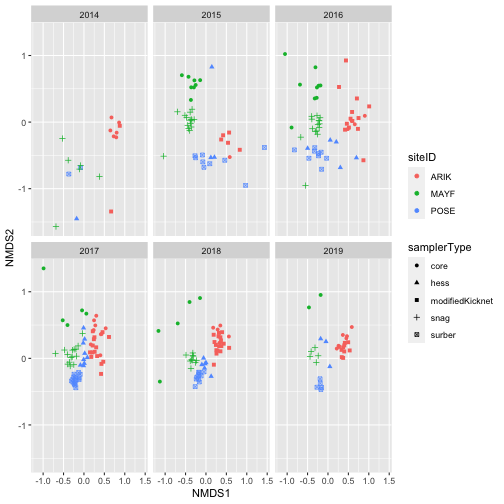
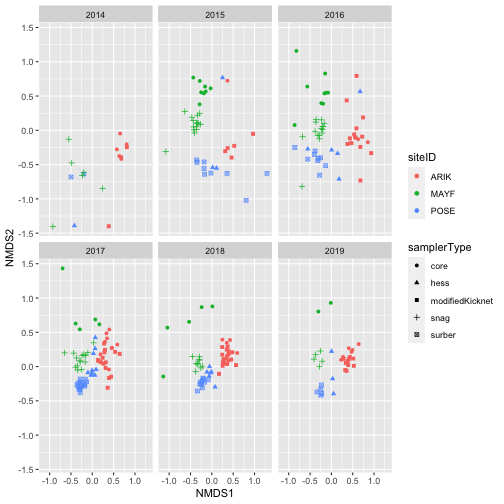
Tiny updates to SFS biodiversity 01 - removing topics (that maybe don't exist?) trying to fix sync issue.

diff --git a/tutorials/R/SFS-2020/01_working_with_NEON_macroinverts.md b/tutorials/R/SFS-2020/01_working_with_NEON_macroinverts.md
@@ -7,7 +7,7 @@ authors: Eric R. Sokol
 contributors: Donal O'Leary
 estimatedTime: 1 Hour
 packagesLibraries: tidyverse, neonUtilities, vegan, vegetarian
-topics: biodiversity, aquatic organisms
+topics:
 languagesTool: R
 dataProduct: DP1.20120.001
 code1: R/SFS-2020/01_working_with_NEON_macroinverts.R
@@ -99,7 +99,7 @@ Now that the workspace is prepared, we will download NEON macroinvertibrate data
     ## Copied the most recent publication of categoricalCodes file to /stackedFiles
     ## Copied the most recent publication of variable definition file to /stackedFiles
     ## Finished: Stacked 3 data tables and 3 metadata tables!
-    ## Stacking took 1.095396 secs
+    ## Stacking took 1.207359 secs
     ## All unzipped monthly data folders have been removed.
 
 ## Macroinvertebrate Data Munging
@@ -621,39 +621,37 @@ Finally, we will use Nonmetric Multidimensional Scaling (NMDS) to ordinate sampl
     ## Square root transformation
     ## Wisconsin double standardization
     ## Run 0 stress 0.2140863 
-    ## Run 1 stress 0.2160446 
-    ## Run 2 stress 0.2282881 
-    ## Run 3 stress 0.2140571 
+    ## Run 1 stress 0.2162688 
+    ## Run 2 stress 0.2243414 
+    ## Run 3 stress 0.2350566 
+    ## Run 4 stress 0.2211345 
+    ## Run 5 stress 0.2248335 
+    ## Run 6 stress 0.2147118 
+    ## Run 7 stress 0.2183928 
+    ## Run 8 stress 0.229536 
+    ## Run 9 stress 0.2115771 
     ## ... New best solution
-    ## ... Procrustes: rmse 0.02484201  max resid 0.2526633 
-    ## Run 4 stress 0.2186605 
-    ## Run 5 stress 0.2175908 
-    ## Run 6 stress 0.2243299 
-    ## Run 7 stress 0.2239796 
-    ## Run 8 stress 0.2242964 
-    ## Run 9 stress 0.226169 
-    ## Run 10 stress 0.2141104 
-    ## ... Procrustes: rmse 0.02450315  max resid 0.2521444 
-    ## Run 11 stress 0.209966 
+    ## ... Procrustes: rmse 0.02224985  max resid 0.1627784 
+    ## Run 10 stress 0.2212443 
+    ## Run 11 stress 0.2325747 
+    ## Run 12 stress 0.2181018 
+    ## Run 13 stress 0.2210445 
+    ## Run 14 stress 0.226579 
+    ## Run 15 stress 0.2288188 
+    ## Run 16 stress 0.2133539 
+    ## Run 17 stress 0.2319424 
+    ## Run 18 stress 0.2231202 
+    ## Run 19 stress 0.2104442 
     ## ... New best solution
-    ## ... Procrustes: rmse 0.02259119  max resid 0.2546775 
-    ## Run 12 stress 0.2208347 
-    ## Run 13 stress 0.2273503 
-    ## Run 14 stress 0.2104249 
-    ## ... Procrustes: rmse 0.01160543  max resid 0.1399671 
-    ## Run 15 stress 0.2131553 
-    ## Run 16 stress 0.2186318 
-    ## Run 17 stress 0.2254547 
-    ## Run 18 stress 0.2164757 
-    ## Run 19 stress 0.2303861 
-    ## Run 20 stress 0.2120193 
+    ## ... Procrustes: rmse 0.01964899  max resid 0.1649962 
+    ## Run 20 stress 0.2386217 
     ## *** No convergence -- monoMDS stopping criteria:
     ##     20: stress ratio > sratmax
 
     # plot stress
     my_nmds_result$stress
 
-    ## [1] 0.209966
+    ## [1] 0.2104442
 
     p1 <- vegan::ordiplot(my_nmds_result)
     vegan::ordilabel(p1, "species")
@@ -672,49 +670,49 @@ Finally, we will use Nonmetric Multidimensional Scaling (NMDS) to ordinate sampl
     nmds_scores %>% arrange(desc(NMDS1)) %>% head()
 
     ##                  sampleID     NMDS1       NMDS2 domainID siteID
-    ## 1  POSE.20150721.SURBER.1 1.4318861 -0.38134736      D02   POSE
-    ## 2 ARIK.20160919.KICKNET.3 1.0091420  0.23569204      D10   ARIK
-    ## 3  POSE.20150330.SURBER.1 0.9711197 -0.95001981      D02   POSE
-    ## 4    ARIK.20160919.CORE.3 0.9023961  0.09424011      D10   ARIK
-    ## 5 ARIK.20140714.KICKNET.3 0.8774704 -0.05561697      D10   ARIK
-    ## 6 ARIK.20160919.KICKNET.4 0.8683293 -0.57333108      D10   ARIK
+    ## 1  POSE.20150721.SURBER.1 1.2922853 -0.62774974      D02   POSE
+    ## 2 ARIK.20150325.KICKNET.4 0.9661968 -0.05133823      D10   ARIK
+    ## 3 ARIK.20160919.KICKNET.3 0.9328427 -0.33302062      D10   ARIK
+    ## 4    ARIK.20160919.CORE.3 0.8550815 -0.17361451      D10   ARIK
+    ## 5 ARIK.20140714.KICKNET.3 0.8110389 -0.24606938      D10   ARIK
+    ## 6   ARIK.20140714.CORER.3 0.8050464 -0.20361600      D10   ARIK
     ##    namedLocation         collectDate       eventID year
     ## 1 POSE.AOS.reach 2015-07-21 14:43:00 POSE.20150721 2015
-    ## 2 ARIK.AOS.reach 2016-09-19 22:06:00 ARIK.20160919 2016
-    ## 3 POSE.AOS.reach 2015-03-30 14:30:00 POSE.20150330 2015
+    ## 2 ARIK.AOS.reach 2015-03-25 17:15:00 ARIK.20150325 2015
+    ## 3 ARIK.AOS.reach 2016-09-19 22:06:00 ARIK.20160919 2016
     ## 4 ARIK.AOS.reach 2016-09-19 22:06:00 ARIK.20160919 2016
     ## 5 ARIK.AOS.reach 2014-07-14 17:51:00 ARIK.20140714 2014
-    ## 6 ARIK.AOS.reach 2016-09-19 22:06:00 ARIK.20160919 2016
+    ## 6 ARIK.AOS.reach 2014-07-14 17:51:00 ARIK.20140714 2014
     ##   habitatType     samplerType benthicArea          inv_dens_unit
     ## 1      riffle          surber       0.093 count per square meter
     ## 2         run modifiedKicknet       0.250 count per square meter
-    ## 3      riffle          surber       0.093 count per square meter
+    ## 3         run modifiedKicknet       0.250 count per square meter
     ## 4        pool            core       0.006 count per square meter
     ## 5         run modifiedKicknet       0.250 count per square meter
-    ## 6         run modifiedKicknet       0.250 count per square meter
+    ## 6        pool            core       0.006 count per square meter
 
     nmds_scores %>% arrange(desc(NMDS1)) %>% tail()
 
-    ##                 sampleID      NMDS1       NMDS2 domainID siteID
-    ## 262 MAYF.20160321.CORE.3 -0.8919394 -0.08143651      D08   MAYF
-    ## 263 MAYF.20170314.CORE.1 -0.9888565  1.35119515      D08   MAYF
-    ## 264 MAYF.20150324.SNAG.3 -1.0368373 -0.51171167      D08   MAYF
-    ## 265 MAYF.20160321.CORE.2 -1.0526174  1.02230383      D08   MAYF
-    ## 266 MAYF.20180326.CORE.3 -1.1293625 -0.34888000      D08   MAYF
-    ## 267 MAYF.20180726.CORE.2 -1.1632705  0.41184096      D08   MAYF
+    ##                   sampleID      NMDS1       NMDS2 domainID siteID
+    ## 262 POSE.20161031.SURBER.4 -0.8582684 -0.24962210      D02   POSE
+    ## 263   MAYF.20160321.CORE.3 -0.8619907  0.07703428      D08   MAYF
+    ## 264   MAYF.20141114.SNAG.2 -0.9233371 -1.40365757      D08   MAYF
+    ## 265   MAYF.20180726.CORE.2 -1.0408261  0.56786187      D08   MAYF
+    ## 266   MAYF.20150324.SNAG.3 -1.0783111 -0.30839046      D08   MAYF
+    ## 267   MAYF.20180326.CORE.3 -1.1389911 -0.14441285      D08   MAYF
     ##      namedLocation         collectDate       eventID year
-    ## 262 MAYF.AOS.reach 2016-03-21 16:09:00 MAYF.20160321 2016
-    ## 263 MAYF.AOS.reach 2017-03-14 14:11:00 MAYF.20170314 2017
-    ## 264 MAYF.AOS.reach 2015-03-24 17:15:00 MAYF.20150324 2015
-    ## 265 MAYF.AOS.reach 2016-03-21 16:09:00 MAYF.20160321 2016
-    ## 266 MAYF.AOS.reach 2018-03-26 14:50:00 MAYF.20180326 2018
-    ## 267 MAYF.AOS.reach 2018-07-26 14:17:00 MAYF.20180726 2018
+    ## 262 POSE.AOS.reach 2016-10-31 14:01:00 POSE.20161031 2016
+    ## 263 MAYF.AOS.reach 2016-03-21 16:09:00 MAYF.20160321 2016
+    ## 264 MAYF.AOS.reach 2014-11-14 16:30:00 MAYF.20141114 2014
+    ## 265 MAYF.AOS.reach 2018-07-26 14:17:00 MAYF.20180726 2018
+    ## 266 MAYF.AOS.reach 2015-03-24 17:15:00 MAYF.20150324 2015
+    ## 267 MAYF.AOS.reach 2018-03-26 14:50:00 MAYF.20180326 2018
     ##     habitatType samplerType benthicArea          inv_dens_unit
-    ## 262         run        core       0.006 count per square meter
+    ## 262      riffle      surber       0.093 count per square meter
     ## 263         run        core       0.006 count per square meter
-    ## 264         run        snag       0.076 count per square meter
+    ## 264      riffle        snag       0.106 count per square meter
     ## 265         run        core       0.006 count per square meter
-    ## 266         run        core       0.006 count per square meter
+    ## 266         run        snag       0.076 count per square meter
     ## 267         run        core       0.006 count per square meter
 
     # Plot samples in community composition space by year
